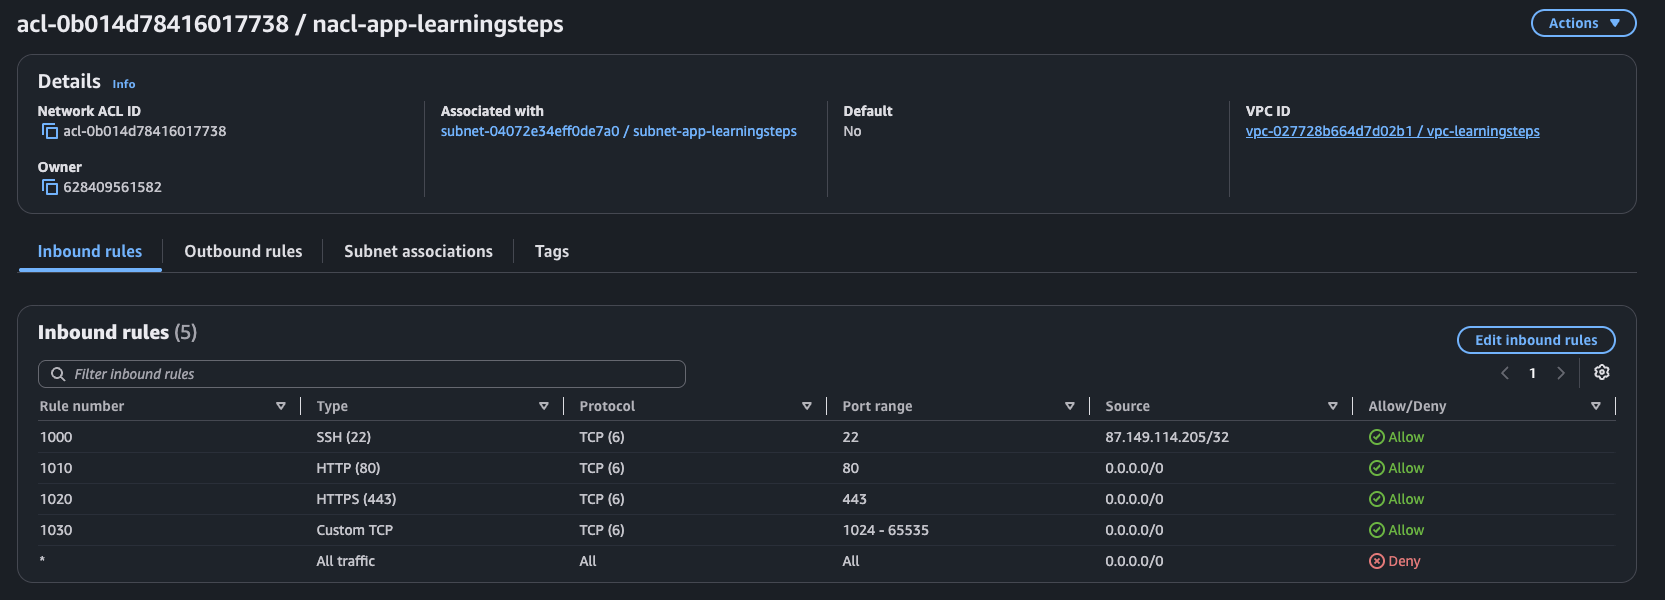
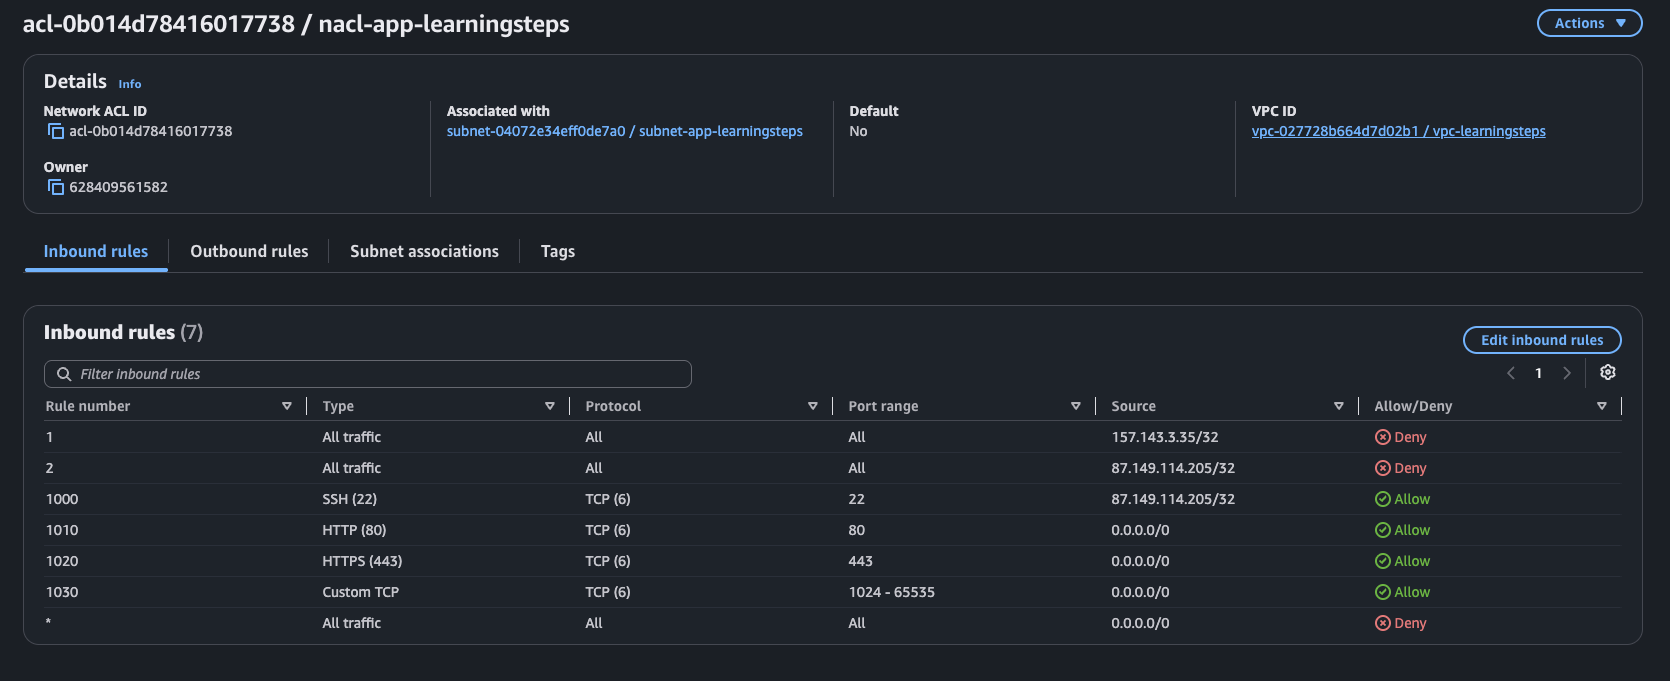
Full README: original diagram layout with classDef colors, detection/geolocation explanation, all comparisons and individual screenshots

diff --git a/README.md b/README.md
@@ -27,6 +27,7 @@ This is not a copy-paste port. Every piece was re-derived from first principles 
 - [Day 3 — Identity](#day-3--identity)
 - [Day 4 — Data Isolation](#day-4--data-isolation)
 - [Day 5 — Monitoring & Incident Response](#day-5--monitoring--incident-response)
+- [How Attacker Detection & Geolocation Works](#how-attacker-detection--geolocation-works)
 - [Beyond the Requirements](#beyond-the-requirements)
 - [Repository Structure](#repository-structure)
 - [Deploying This Yourself](#deploying-this-yourself)
@@ -37,44 +38,36 @@ This is not a copy-paste port. Every piece was re-derived from first principles 
 ## Architecture
 
 ```mermaid
-graph TD
+graph TB
     Internet((Internet))
 
-    subgraph AWS["AWS Account — eu-central-1"]
-        direction LR
-
-        subgraph Support["Supporting Services"]
-            direction TB
-            Cognito["Cognito<br/>Identity"]
-            Secrets["Secrets Manager<br/>DB password"]
-            CT["CloudTrail<br/>Audit trail"]
-            SNS["SNS<br/>Alerts"]
+    subgraph VPC["VPC 10.0.0.0/16"]
+        subgraph AppSubnet["subnet-app 10.0.1.0/24"]
+            NACL["Network ACL<br/>SSH restricted, auto-block deny rules"]
+            SG_APP["Security Group<br/>SSH: admin IP only"]
+            EC2["EC2 t3.small<br/>NPMplus + CrowdSec + oauth2-proxy<br/>FastAPI app"]
         end
-
-        subgraph Net["VPC 10.0.0.0/16"]
-            direction TB
-            EIP["Elastic IP"]
-            NACL["Network ACL<br/>auto-block"]
-            SG["Security Group<br/>SSH: admin IP only"]
-            EC2["EC2 t3.small<br/>NPMplus + CrowdSec<br/>oauth2-proxy + FastAPI"]
-            RDS[("RDS PostgreSQL<br/>private + encrypted")]
-        end
-
-        subgraph Detect["Detection & Response"]
-            direction TB
-            CW["CloudWatch<br/>Logs + Dashboard"]
-            Lambda["Lambda<br/>WAF detector"]
+        subgraph DBSubnet["subnet-db-secondary 10.0.2.0/24"]
+            RDS[("RDS PostgreSQL<br/>publicly_accessible = false<br/>storage_encrypted = true")]
         end
     end
 
-    Internet -->|HTTPS| EIP --> NACL --> SG --> EC2
-    EC2 --> Secrets
-    EC2 --> Cognito
-    EC2 --> CW
-    CW -->|every 5 min| Lambda
+    Cognito["Amazon Cognito<br/>User Pool + App Client"]
+    Secrets["Secrets Manager<br/>DB password"]
+    Lambda["Lambda<br/>WAF attack detector"]
+    CW["CloudWatch<br/>Logs + Alarms + Dashboard"]
+    CT["CloudTrail<br/>Multi-region audit trail"]
+    SNS["SNS<br/>Security email alerts"]
+    EIP["Elastic IP<br/>Stable public address"]
+
+    Internet -->|HTTPS| EIP --> NACL --> SG_APP --> EC2
+    EC2 -->|IAM Role, no static creds| Secrets
+    EC2 -->|OIDC| Cognito
+    EC2 -->|nginx JSON logs| CW
+    CW -->|EventBridge, every 5 min| Lambda
     Lambda -->|auto-block| NACL
-    EC2 -.->|private only| RDS
-    CT --> SNS
+    EC2 -.->|private, no public access| RDS
+    CT -->|root/IAM change metrics| SNS
 
     classDef compute fill:#1a73e8,stroke:#0d47a1,color:#ffffff,stroke-width:2px
     classDef data fill:#0f9d58,stroke:#0d652d,color:#ffffff,stroke-width:2px
@@ -84,9 +77,9 @@ graph TD
 
     class EC2 compute
     class RDS data
-    class Lambda,CW detect
-    class EIP,NACL,SG net
-    class Cognito,Secrets,CT,SNS support
+    class Lambda detect
+    class EIP,NACL,SG_APP net
+    class Cognito,Secrets,CW,CT,SNS support
 ```
 
 ---
@@ -131,56 +124,52 @@ The full account of AWS resources, all managed by Terraform:
 
 ## What's Better on AWS
 
-Real advantages found while building this, not just "AWS won" for its own sake:
-
 - **RDS's network migration is non-destructive.** Flipping `publicly_accessible` to `false` is a mutable, in-place update — no destroy/recreate, no data loss, no restore needed. Azure's equivalent (VNet Integration) is a `ForceNew` attribute that destroys and recreates the entire database server. Day 4 on Azure *requires* a backup/restore because of this; on AWS it's optional discipline, not a hard requirement.
 - **SSM Session Manager needs no extension install.** Azure's `AADSSHLoginForLinuxExtension` has to be explicitly installed and can silently fail if the VM has no public IP (a real, documented Azure Policy conflict from the original project). SSM works purely through the IAM Role and the SSM Agent that ships pre-installed on Amazon Linux/Ubuntu AMIs — no extension, no NIC-level public IP requirement at all.
-- **CrowdSec's `whitelist-good-actors` and allowlist system is more transparent and scriptable than CrowdSec-on-Azure's equivalent config**, since `cscli` commands are identical either way but AWS's IAM model made it trivial to grant the Lambda exactly the two permissions it needs (`DescribeNetworkAcls`, `CreateNetworkAclEntry`) with no broader blast radius.
-- **CloudTrail is genuinely free at the tier used here.** Azure Activity Log is also free, but CloudTrail's multi-region, multi-account design (even though this project uses one region/account) is a more mature, more commonly-referenced skill in the industry.
+- **CrowdSec's allowlist system maps cleanly onto IAM least-privilege.** The Lambda only needed two permissions (`DescribeNetworkAcls`, `CreateNetworkAclEntry`) to fully automate the response — a tightly scoped IAM policy that's trivial to reason about.
+- **CloudTrail is genuinely free at the tier used here** and its multi-region, multi-account design is a more commonly-referenced industry skill than Azure Activity Log, even for a single-region project like this one.
 
 ---
 
 ## What's Worse or Harder on AWS
 
-Equally real friction points, documented honestly rather than glossed over:
-
-- **No free FQDN for EC2.** Azure's `domain_name_label` gives a working DNS name (`<label>.<region>.cloudapp.azure.com`) automatically, at zero cost. AWS gives nothing equivalent for EC2 — solved here with `nip.io`, a third-party wildcard DNS service, which works but is a workaround, not a first-party feature.
-- **Security Groups have no Deny rules at all.** Azure NSGs support Allow *and* Deny with priorities, which the original Day 5 auto-block relies on directly. AWS Security Groups are Allow-only — the Day 5 auto-block here had to be built on a **Network ACL** instead, a genuinely different resource type with its own numbering and statelessness quirks, adding real complexity that Azure's model didn't require.
-- **RDS requires a multi-AZ subnet group even for a single-AZ instance.** A second, otherwise-unused subnet had to be created purely to satisfy this requirement — an extra resource with no functional purpose beyond satisfying an API constraint.
-- **`aws login`'s new browser-based credential flow doesn't integrate with Terraform's AWS provider out of the box.** It required manually bridging `~/.aws/config` with a `credential_process` pointing at a named profile — an extra, undocumented step that Azure CLI's `az login` doesn't need (Terraform's `azurerm` provider reads Azure CLI credentials natively).
-- **RDS password validation is stricter and less obvious.** `/`, `@`, `"`, and spaces are silently rejected with a generic error, discovered only by trial and error, not surfaced anywhere in the Terraform plan output.
-- **GuardDuty and Security Hub are unavailable on the Free Plan.** Both are core AWS security services, but both return `SubscriptionRequiredException` without an upgrade to a Paid Plan — meaning genuinely important detection tooling was out of reach for a $0 budget in a way that had no equivalent limitation on the Azure side (Sentinel was fully usable throughout the Azure project).
+- **No free FQDN for EC2.** Azure's `domain_name_label` gives a working DNS name automatically, at zero cost. AWS gives nothing equivalent for EC2 — solved here with `nip.io`, a third-party wildcard DNS service, which works but is a workaround, not a first-party feature.
+- **Security Groups have no Deny rules at all.** Azure NSGs support Allow *and* Deny with priorities, which the original Day 5 auto-block relies on directly. AWS Security Groups are Allow-only — the Day 5 auto-block here had to be built on a **Network ACL** instead, a genuinely different resource type with its own numbering and statelessness quirks.
+- **RDS requires a multi-AZ subnet group even for a single-AZ instance.** A second, otherwise-unused subnet had to be created purely to satisfy this requirement.
+- **`aws login`'s browser-based credential flow doesn't integrate with Terraform's AWS provider out of the box.** It required manually bridging `~/.aws/config` with a `credential_process` pointing at a named profile.
+- **RDS password validation is stricter and less obvious.** `/`, `@`, `"`, and spaces are silently rejected with a generic error.
+- **GuardDuty and Security Hub are unavailable on the Free Plan.** Both return `SubscriptionRequiredException` without a Paid Plan upgrade — meaning genuinely important detection tooling was out of reach for a $0 budget, with no equivalent limitation on the Azure side.
 
 ---
 
 ## Challenges Encountered
 
-- **CrowdSec blocking its own admin traffic.** The WAF's `access_by_lua_block` inspects *all* traffic through NPMplus, including the SSM-tunneled connection to NPMplus's own admin panel on port 81. Repeated admin actions were misclassified as an attack and the admin's own IP got auto-banned — solved with a dedicated CrowdSec allowlist, but only found by directly reading nginx's error logs during a live outage.
-- **CloudWatch Logs Insights couldn't parse the log format at first.** rsyslog was writing a syslog-prefixed line (`Jul 12 13:11:10 host nginx: {json}`) instead of clean JSON, so `fields`/`filter` in Logs Insights silently matched nothing. Fixed with an rsyslog template (`%msg:2:$%`) that strips the prefix before it ever reaches the log file CloudWatch Agent tails.
-- **The RDS country field was in an undocumented location.** CrowdSec's decision JSON exposes the attacker's country as `source.cn`, not a top-level `country` field as first assumed — found only by dumping and inspecting the raw JSON directly, not from any CrowdSec documentation.
-- **A real, unprompted attacker showed up during Day 5 testing.** While validating the auto-block pipeline with a controlled test payload, the Lambda also caught and blocked a second, genuine attacker (a different IP, from a different country) probing the same endpoint — unplanned, but a strong live confirmation that the detection pipeline works against real traffic, not just staged tests.
+- **CrowdSec blocking its own admin traffic.** The WAF's `access_by_lua_block` inspects all traffic through NPMplus, including the SSM-tunneled connection to NPMplus's own admin panel on port 81. Repeated admin actions were misclassified as an attack and the admin's own IP got auto-banned — solved with a dedicated CrowdSec allowlist, found only by directly reading nginx's error logs during a live outage.
+- **CloudWatch Logs Insights couldn't parse the log format at first.** rsyslog was writing a syslog-prefixed line instead of clean JSON, so `fields`/`filter` silently matched nothing. Fixed with an rsyslog template (`%msg:2:$%`) that strips the prefix before CloudWatch Agent tails the file.
+- **The attacker's country field was in an undocumented location.** CrowdSec's decision JSON exposes it as `source.cn`, not a top-level `country` field as first assumed — found only by dumping and inspecting the raw JSON directly.
+- **A real, unprompted attacker showed up during Day 5 testing.** While validating the auto-block pipeline with a controlled test payload, the Lambda also caught and blocked a second, genuine attacker (a different IP, from a different country) probing the same endpoint — unplanned, but strong live confirmation the pipeline works against real traffic.
 
 ---
 
 ## Lessons Learned
 
-- **A resource being *mutable* instead of `ForceNew` is a real architectural signal, not a minor implementation detail.** It changes whether "hardening" work needs a backup plan or not, and it's worth checking a provider's schema for this before assuming two clouds' equivalent features behave the same way operationally.
-- **Cloud-native security tooling (WAFs, bouncers, agents) needs to be told about its own management traffic explicitly**, or it will eventually treat legitimate admin access as an attack. This is a pattern, not a one-off bug — worth designing for from day one on any project with a self-hosted WAF.
-- **Free-tier boundaries are a real constraint on tool choice, not just a pricing footnote.** Not having GuardDuty available meant building custom detection logic (the Lambda) that a Paid Plan account would likely never need to write by hand — which, incidentally, is why that Lambda exists here in code, reviewable and understood, rather than being an opaque managed service.
-- **Translating an architecture between clouds is a different skill from building it once.** The parts that transferred cleanly (NPMplus, CrowdSec, the application itself) did so because they were already cloud-agnostic by design. The parts that required real rework (auto-block mechanism, DNS, keyless access) were exactly the parts most tightly coupled to Azure-specific primitives — a useful signal for how to design future infrastructure to be more portable from the start.
+- **A resource being *mutable* instead of `ForceNew` is a real architectural signal, not a minor implementation detail.** It changes whether "hardening" work needs a backup plan or not.
+- **Cloud-native security tooling needs to be told about its own management traffic explicitly**, or it will eventually treat legitimate admin access as an attack — a pattern worth designing for from day one on any project with a self-hosted WAF.
+- **Free-tier boundaries are a real constraint on tool choice, not just a pricing footnote.** Not having GuardDuty meant building custom detection logic that a Paid Plan account would likely never write by hand — which is why the Lambda here exists as reviewable code rather than an opaque managed service.
+- **Translating an architecture between clouds is a different skill from building it once.** The parts that transferred cleanly (NPMplus, CrowdSec, the app itself) did so because they were already cloud-agnostic by design; the parts requiring real rework (auto-block, DNS, keyless access) were the parts most tightly coupled to Azure-specific primitives.
 
 ---
 
 ## Zero-Cost Design Decisions
 
-This project runs entirely on **AWS Free Plan**, which structurally cannot incur real charges (exceeding free-tier services requires an explicit upgrade to a Paid Plan, which was never done):
+This project runs entirely on **AWS Free Plan**, which structurally cannot incur real charges:
 
 - **`nip.io` instead of a paid domain** — zero cost, zero DNS setup, a real trusted Let's Encrypt certificate.
-- **No NAT Gateway** — the single largest hidden cost trap in AWS (~$0.045/hr + data). Avoided by keeping the app in a public subnet with a tight Security Group.
-- **RDS storage capped at 20GB** — the Azure original used 32GB; RDS Free Tier only covers 20GB, so storage was reduced accordingly (documented trade-off, not an oversight).
-- **No AWS WAF (managed)** — billed per Web ACL, per rule, per request. CrowdSec (self-hosted, same tool as Azure) used instead, free and arguably more transparent about what it blocks.
-- **GuardDuty and Security Hub attempted, not included** — both need a Paid Plan; left out rather than accidentally triggering a billing tier change.
-- **Elastic IP** — free while attached to a running instance, which it always is here; added specifically to stop TLS certs, Cognito callback URLs, and oauth2-proxy config from breaking on every EC2 stop/start.
+- **No NAT Gateway** — the single largest hidden cost trap in AWS. Avoided by keeping the app in a public subnet with a tight Security Group.
+- **RDS storage capped at 20GB** — the Azure original used 32GB; RDS Free Tier only covers 20GB.
+- **No AWS WAF (managed)** — billed per Web ACL/rule/request. CrowdSec used instead, free and self-hosted like the Azure original.
+- **GuardDuty and Security Hub attempted, not included** — both need a Paid Plan.
+- **Elastic IP** — free while attached to a running instance; stops TLS certs, Cognito callback URLs, and oauth2-proxy config from breaking on every EC2 stop/start.
 
 ---
 
@@ -207,6 +196,11 @@ This project runs entirely on **AWS Free Plan**, which structurally cannot incur
 
 - NPMplus reverse proxy issues a Let's Encrypt certificate for `<elastic-ip>.nip.io`.
 - CrowdSec runs as a bouncer in front of NPMplus, using the real OWASP Core Rule Set (`appsec-crs`) to detect SQLi/XSS payloads.
+- The NPMplus admin panel (port 81) is never exposed publicly — reached only through an SSM port-forwarding tunnel.
+
+**SSM tunnel opened to reach the NPMplus admin panel privately:**
+
+![SSM port forwarding](docs/screenshots/start-port-forwarding.png)
 
 **Certificate issued and validated (`HTTP/2`, real Let's Encrypt cert):**
 
@@ -273,13 +267,29 @@ The pipeline: `nginx access log → JSON forwarder → CloudWatch Logs → Logs 
 
 ![Logs Insights](docs/screenshots/day5-logs-insights.png)
 
-**Lambda's automatic Network ACL deny rules — both the test IP and a real, unprompted attacker caught live:**
+**Lambda's automatic Network ACL deny rules — the test IP (`87.149.114.205`) and a real, unprompted attacker (`157.143.3.35`) caught live, both at rule numbers below 100 so they always evaluate before the baseline Allow rules:**
 
 ![NACL block](docs/screenshots/day5-nacl-block.png)
 
 **Geographic dashboard of blocked attackers, built from CrowdSec decision data:**
 
 ![Dashboard](docs/screenshots/day5-dashboard.png)
+
+---
+
+## How Attacker Detection & Geolocation Works
+
+The detection pipeline runs on two parallel tracks that feed the same Network ACL:
+
+**1. WAF-level blocking (CrowdSec, real-time).** Every request through NPMplus is inspected in Lua (`access_by_lua_block`) against CrowdSec's local decision engine, which evaluates the OWASP Core Rule Set (`appsec-crs`) plus behavioral scenarios (`base-http-scenarios`, `http-cve`). A match returns `403` immediately, in milliseconds, with no round-trip to AWS at all — this is what Day 2's screenshot shows.
+
+**2. Log-based detection and network-layer auto-block (Lambda, every 5 minutes).** This is the slower, AWS-native layer that Day 5 tests:
+
+- nginx logs every request as JSON (`remote_addr`, `status`, `uri`, `time`) via a Python forwarder into syslog, cleaned by an rsyslog template, and tailed by the CloudWatch Agent into a Log Group.
+- Every 5 minutes, EventBridge triggers the `waf-attack-detector` Lambda, which runs a CloudWatch Logs Insights query: count `403` responses per `remote_addr` over the last 5 minutes, keep only IPs with 5 or more.
+- For each IP over the threshold, the Lambda calls `ec2:CreateNetworkAclEntry`, inserting a `Deny` rule at a rule number below 100 — guaranteeing it evaluates before the Network ACL's baseline `Allow` rules (1000+), which is the same priority-ordering principle the Azure original uses in its NSG.
+
+**Geolocation.** The country shown on the dashboard doesn't come from AWS at all — CrowdSec resolves it internally (MaxMind-based GeoIP, bundled with the `crowdsec` container) and exposes it per-decision as `source.cn` in `cscli decisions list -o json`. A small script (`geo-export/export-geo-metrics.sh`) reads that JSON, counts decisions per country, and publishes them as a CloudWatch custom metric (`LearningSteps/CrowdSec`, `BlockedAttackers`, dimensioned by `Country`) — which is what the dashboard's pie chart visualizes. AWS never performs the IP-to-country lookup itself in this pipeline; it only stores and displays a number CrowdSec already computed.
 
 ---
 